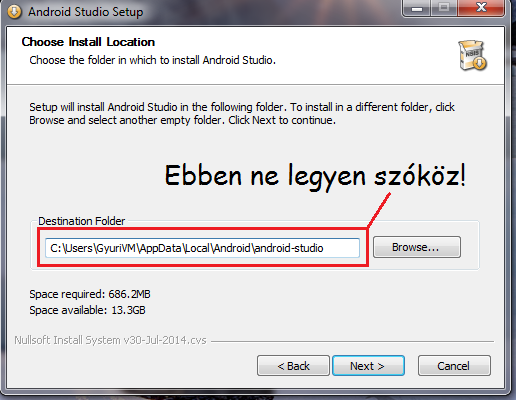
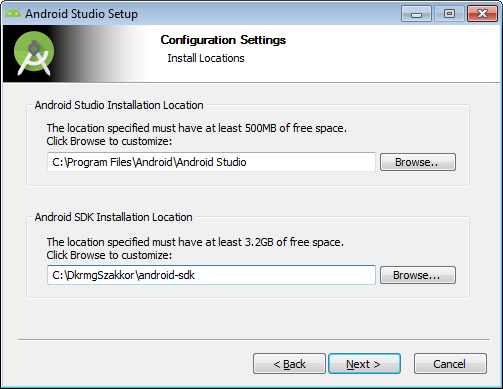
Update L01 for AndroidStudio 1.0. + some minor enhancements

diff --git a/lessons/l01_old.html b/lessons/l01_old.html
@@ -31,9 +31,9 @@
 		</h1>
 		<hr/>
 
-        <div class="possible-error">
-            <p>Figyelem! 2014. december 18. előtt pár dolog máshogy működött! A régi leírást
-                <a href="/lessons/l01_old.html">itt</a> éred el, ha mégis szükséged lenne rá.</p>
+        <div class="possible-error" style="border-width: 3px;">
+            <p><strong>Vigyázz! Ez egy régebbi verzió telepítését mutatja be! 2014. december 18.
+                után az <a href="/lessons/l01.html">új változatot</a> kövesd!</strong></p>
         </div>
 
         <p>
@@ -66,8 +66,8 @@
                 <img src="/static/img/l01/install/jdk1.png" class="center-block" />
             </li>
             <li>
-                <p>Indítsd el a letöltött .exe fájlt, majd a dialógus segítségével többszöri "Next" végül a "Close" gomb
-                megnyomásával telepítsd a programot. Ne módosíts semmilyen beállítást, ha nem feltétlenül szükséges!</p>
+                <p>Indítsd el a letöltött .exe fájlt, majd a dialógus segítségével a "Next" végül a "Close" gomb
+                ismételt megnyomásával telepítsd a programot.</p>
                 <p>Ha a géped korábban nem találkozott volna a Java semmilyen változatával, akkor települni fog a
                     JRE (Java Runtime Environment) is</p>
                 <p class="xpspec">
@@ -81,28 +81,29 @@
         <ol>
             <li>
                 Töltsd le ingyenesen a Google honlapjáról
-                <a href="http://developer.android.com/sdk/index.html">
-                    http://developer.android.com/sdk/index.html
-                </a>
+                <a href="http://developer.android.com/sdk/installing/studio.html">
+                    http://developer.android.com/sdk/installing/studio.html
+                </a> (362 MB)
                 <ul>
                     <li>Ehhez kattints a "Download Android Studio..." gombra</li>
                     <li>Fogadd el a felhasználói feltételeket</li>
                     <li>Kattints a lap alján található letöltés gombra</li>
                 </ul>
                 <div class="center-block imgstore">
-                    <img src="/static/img/l01/install/andStud1.png" />
+                    <img src="/static/img/l01/install/andStud1_old.png" />
                     <img src="/static/img/l01/install/andStud2.png" />
                 </div>
             </li>
             <li>
-                <p>Telepítés közben vegyük ki a pipát az Android Virtual Device elől (2. kép)!</p>
-                <p>A 3. képen megkérdezi, hogy hova telepítse az Android SDK-t. A későbbi könnyebb kezelés érdekében
-                    érdemes egy egyszerű mappába tenni, például <code>C:\DkrmgAndroid\android-sdk</code>. Elég beírni,
-                    a telepítő létrehozza magának a mappákat.</p>
+                <p>Telepítés közben Ellenőrizzük, hogy a telepítés helye (Destination Folder) ne tartalmazzon szóközöket!</p>
+                <p>Ha az alapértelmezett hely mégis tartalmazna szóközt, telepíts inkább pl. a "C:\Android" mappába.</p>
+                <p class="xpspec">Windows XP-n az alapértelmezett útvonalban szerepel az "Application Data" mappa,
+                    amely sajnos tartalmaz egy szóközt! Ezért XP-n hozzunk létre pl a C: meghajtó gyökerében egy
+                    mappát (pl.: AndroidSzakkor), ezen belül egy <code>android-studio</code> nevűt, és ide telepítsünk!
+                </p>
                 <div class="imgstore">
-                    <img src="/static/img/l01/install/andStud3.png" />
-                    <img src="/static/img/l01/install/andStud3_2.png" />
-                    <img src="/static/img/l01/install/andStud4.png" />
+                    <img src="/static/img/l01/install/andStud3_old.png" />
+                    <img src="/static/img/l01/install/andStud4_old.png" />
                     <img src="/static/img/l01/install/andStud5.png" />
                 </div>
             </li>
@@ -133,8 +134,7 @@
                        </div>
                     </li>
                     <li>
-                        <p>A listában győződj meg arról, hogy semmi nincs kipipálva, csak az alábbi dolgok
-                            (alul a <em>Deselect all</em> linkkel tudod törölni a pipákat):</p>
+                        <p>A listában győződj meg arról, hogy semmi nincs kipipálva, csak az alábbi dolgok:</p>
                         <ul>
                             <li>Android 4.4.2 (API 19)
                                 <ul>

diff --git a/lessons/l01-envvar.html b/lessons/l01-envvar.html
@@ -33,42 +33,28 @@
     <p>Ha az Android Studio első indításánál hiányzik a JAVA_PATH környezeti változó, akkor sajnos a Java JDK
         telepítése folyamán elmulasztotta megmondani a Windowsnak, hogy merre találja legfontosabb fájljait.
         Ezt a mulasztást most nekünk kell jóvá tennünk.</p>
-    <p>Két lehetőség közül is választhatunk:</p>
-    <ol>
-        <li>
-            <em>Windows 7/8 alatt</em><br/>
-            Töltsd le és futtasd RENDSZERGAZDAKÉNT az alábbi fájlt:
-            <a href="http://goo.gl/tZlKEw" target="_blank">JavaHome.bat</a> <br/>
-            Sikeres futtatás után az alábbi ablakot látod:
-            <img src="/static/img/l01/javaPath/cmd.png" class="center-block" />
-        </li>
-        <li>
-            <em>Manuálisan</em>
-            Kézileg is hozzá lehet adni az új változót a "Rendszertulajdonságok" dialóguson keresztül.
-            <ol>
-                <li>Start menü</li>
-                <li><strong>jobb gombbal</strong> Számítógép</li>
-                <li>tulajdonságok
-                    <div class="imgstore">
-                        <img src="/static/img/l01/javaPath/seven1.png" />
-                        <img src="/static/img/l01/javaPath/XP1.png" />
-                    </div>
-                </li>
-                <li><em>Csak Windows 7/8 alatt:</em> Speciális rendszerbeállítások (baloldalt keresd!)</li>
-                <li>A megjelenő ablakban a Speciális fül legyen kiválasztva</li>
-                <li>Alul Környezeti változók gomb, majd az alsó Új… gombra kattintva meg kell mondani,
-                    hogy hol található a feltelepített java fejlesztői kit (JDK): <br/>
-                    A „Változó neve” legyen JAVA_HOME a „Változó értéke” pedig ahova a JDK-t telepítetted
-                    (ez valószínűleg a következő: C:\Program Files\Java\jdk1.8.0_20).
-                    <div class="imgstore">
-                        <img src="/static/img/l01/javaPath/seven2.png" />
-                        <img src="/static/img/l01/javaPath/XP2.png" />
-                    </div>
-                </li>
-                <li>Végül mindegyik ablakot zárd be az OK gombbal, és próbáld meg újra elindítani az Android Studiot!</li>
-            </ol>
-        </li>
-    </ol>
+        <ol>
+            <li>Start menü</li>
+            <li><strong>jobb gombbal</strong> Számítógép</li>
+            <li>tulajdonságok
+                <div class="imgstore">
+                    <img src="/static/img/l01/javaPath/seven1.png" />
+                    <img src="/static/img/l01/javaPath/XP1.png" />
+                </div>
+            </li>
+            <li><em>Csak Windows 7/8 alatt:</em> Speciális rendszerbeállítások (baloldalt keresd!)</li>
+            <li>A megjelenő ablakban a Speciális fül legyen kiválasztva</li>
+            <li>Alul Környezeti változók gomb, majd az alsó Új… gombra kattintva meg kell mondani,
+                hogy hol található a feltelepített java fejlesztői kit (JDK): <br/>
+                A „Változó neve” legyen JAVA_HOME a „Változó értéke” pedig ahova a JDK-t telepítetted
+                (ez valószínűleg a következő: C:\Program Files\Java\jdk1.8.0_25).
+                <div class="imgstore">
+                    <img src="/static/img/l01/javaPath/seven2.png" />
+                    <img src="/static/img/l01/javaPath/XP2.png" />
+                </div>
+            </li>
+            <li>Végül mindegyik ablakot zárd be az OK gombbal, és próbáld meg újra elindítani az Android Studiot!</li>
+        </ol>
 
 </div>
 
